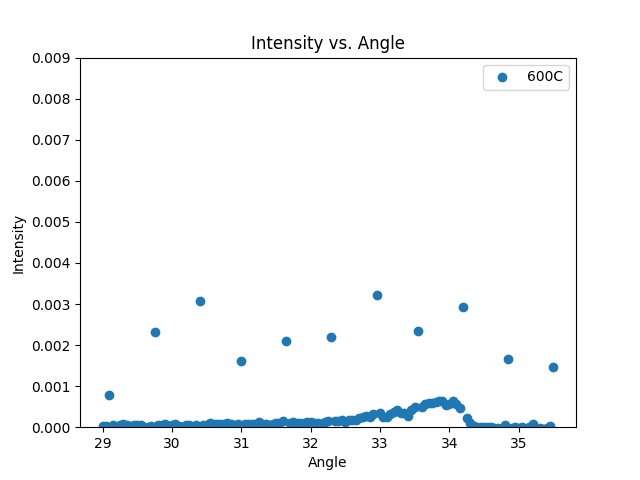
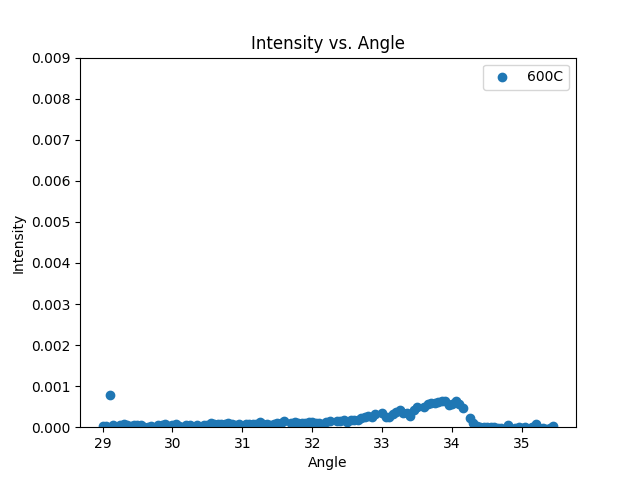
filtering

diff --git a/Lab_2_BB-Radiation/Code/dataAnalysis.py b/Lab_2_BB-Radiation/Code/dataAnalysis.py
@@ -21,7 +21,21 @@ def analyzeData(filename):
     data = readRaw(filename)
     x_axis = np.array(data["angle (degrees) - Plot 0"])
     y_axis = np.array(data["thermopile signal (volts) - Plot 0"])
-    plt.ylim(0, .009)
+
+    if "600C" in filename:
+        mask = y_axis <= 0.001
+
+        # Filter both x and y using the mask
+        x_axis = x_axis[mask]
+        y_axis = y_axis[mask]
+
+    else:
+        mask = y_axis <= 0.01
+
+        # Filter both x and y using the mask
+        x_axis = x_axis[mask]
+        y_axis = y_axis[mask]
+    plt.ylim(0, 0.009)
     # params, covariance = curve_fit(exp_func, x_axis, y_axis)
     # params = tuple(params)
     # a, b, c = params
@@ -30,6 +44,7 @@ def analyzeData(filename):
     # print(f'bg = {backgroundAverage}')
     # print(f"The equation of the line is: y = -{a:.2f} exp(-{b:.5f}*x) + {c}")
     # print(f"The decay constant is {b:.5f} \u00B1 {berr:.5f}")
+
     plt.scatter(x_axis, y_axis, label=filename[3:-4])
     # plt.plot(x_axis, exp_func(x_axis, *params), label="Logarithmic Fit", color="red")
     plt.legend()
@@ -48,7 +63,6 @@ def analyzeData(filename):
 
 
 if __name__ == "__main__":
-
     for temp in [600, 650, 700, 800, 900, 1000, 1100]:
         if temp == 700:
             (analyzeData(f"d4_{temp}C.txt"))
